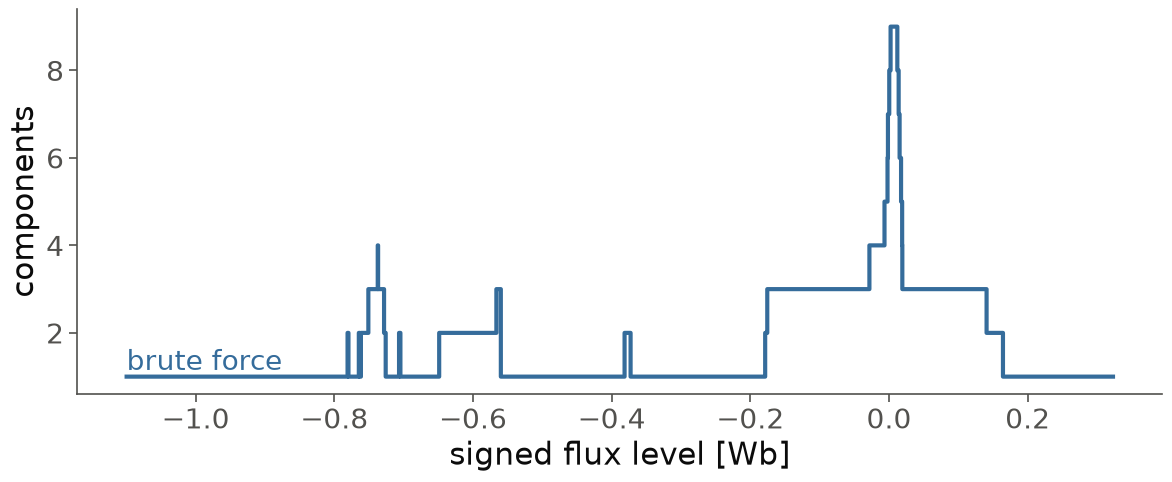
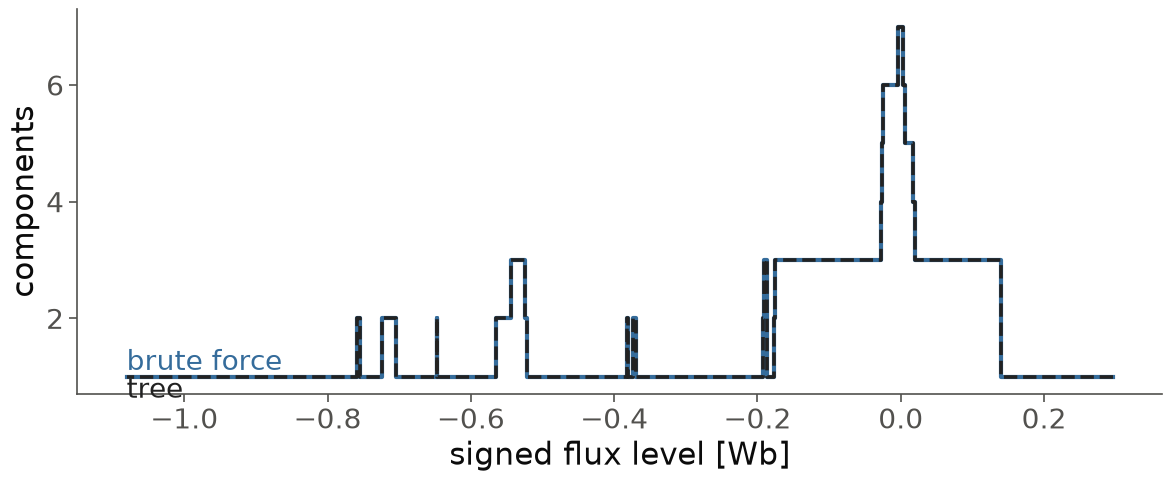
test(contour-tree): complete the brute-force control at the repaired receipt
Bring the MAST carriers inside the contour-tree receipt fixed capacity by
building them at ninety requested hex cells (236 valid vertices, 52 nodes and
51 edges), so the tree-implied component count is compared against the
independent brute force on both MAST rows as well as the four Solovev
certificate rows. Every fixture now agrees at every sampled level with node
count minus edge count one, and the batched vmap trees equal the per-state
trees.

Regenerate the per-fixture figures with the tree-implied count overlaid on the
brute-force count and commit the merged gate log (6 passed) and the declared
negative control, which now fails at the comparison assertion rather than at
overflow. The evidence fragment records the counts per fixture and states that
the MAST field is the stored EFIT reconstruction sampled onto the carrier.

diff --git a/docs/evidence/fragments/contour-tree-topology-authority/ctta-end-to-end-brute-force.html b/docs/evidence/fragments/contour-tree-topology-authority/ctta-end-to-end-brute-force.html
@@ -18,100 +18,94 @@ by a plain host graph search (breadth-first over the carrier's own vertices and
 edges) and compared with the component count the computed tree implies at each
 sampled level. The brute-force side shares no union-find, no merge sweep and no
 tree arc with the receipt; it shares only the mesh and the field values. The
-comparator lives in <code>benchmarks/contour_tree_brute_force.py</code> and its
-gate is <code>tests/test_contour_tree_brute_force.py</code>.</p>
+comparator is <code>benchmarks/contour_tree_brute_force.py</code>; the gate is
+<code>tests/test_contour_tree_brute_force.py</code>.</p>
 
-<h3>Fixtures</h3>
-<ul>
-  <li><strong>Solov&rsquo;ev certificate rows.</strong> Every compact persisted
-  certificate terminal field under
-  <code>docs/figures/gs-absolute-accuracy/solovev/production-route-parts/</code>
-  (<code>*production-route-reduced.json</code>), read through
-  <code>certificate_fixtures()</code>. These are forward states.</li>
-  <li><strong>MAST 27079 row 16.</strong> The limited shot named in the plan&rsquo;s
-  primary-selection section. The carrier is the hex plasma mesh built from the
-  MAST machine description (<code>nova.media.sources.plasma_mesh.hex_mesh</code>
-  over the stored limiter polyline, <code>cells=400</code>, 464 delivered
-  hexagons) and clipped through
-  <code>nova.equilibrium.contour_tree_mesh.build_contour_mesh</code>. The field
-  is the <strong>stored EFIT reconstruction</strong>
-  (<code>efm/psirz</code>, converted to total webers at the read by
-  <code>nova.media.sources.mast_efit.read_frame</code>) sampled at the hex-cell
-  centres with a bicubic spline (<code>scipy.RectBivariateSpline</code>,
-  <code>kx=ky=3</code>). It is a reconstruction sampled onto the carrier, not a
-  forward state. <code>&sigma; = +1</code> because the reconstructed axis flux
-  (<code>+3.694e-1</code> Wb) exceeds the boundary flux.</li>
-  <li><strong>MAST 22475 row 50.</strong> A reversed-current row from the
-  22475&ndash;22626 block. Row 50 is the mid-pulse slice carrying the largest
-  reversed current in that store (<code>Ip = -7.342e5</code> A), so the plasma
-  is well formed rather than a startup or runaway tail; its reconstruction is
-  diverted with two X-points. <code>&sigma; = -1</code> because the axis flux is
-  negative, so the axis is again a maximum of <code>&sigma;&sigma;&psi;</code>.
-  Same carrier and spline route as 27079 row 16.</li>
-</ul>
+<h3>Result at the merged revision</h3>
+<p>At the virtual merge of <code>main</code> with this node's fixtures, every
+fixture agrees: the tree-implied and brute-force component counts are equal at
+every sampled level, and the node count minus the edge count is one. The gate
+command is
+<code>JAX_PLATFORMS=cpu
+PYTHONPATH=/tmp/reckon-crew-scratch/ctta-bf-merged /home/ITER/mcintos/Code/nova/.venv/bin/python
+-m pytest -p no:cacheprovider --timeout 0
+tests/test_contour_tree_brute_force.py -q</code>,
+run at the merge commit <code>222867e6e</code> against the extracted tree; it
+returned <strong>6 passed</strong> (<code>EXIT=0</code>).</p>
 
-<p>Both MAST carriers carry 644 valid vertices (464 hex centres plus 182 wall
-vertices) and 1737 edges; neither overflows the mesh capacities.</p>
-
-<h3>Result</h3>
-<p>The independent superlevel component count is well formed on both MAST
-carriers, and the figure below plots it against the signed flux level. The
-count is 1 at the highest sampled level (the single global maximum) and 1 at
-the deepest (the whole connected chamber), rising to a maximum of
-<strong>6</strong> components on 27079 row 16 and <strong>9</strong> on 22475
-row 50 &mdash; the intermediate critical events of each equilibrium. Every
-count is a positive integer and never exceeds the number of live vertices at
-its level.</p>
+<table>
+  <thead><tr><th>Fixture</th><th>Sampled levels</th><th>Nodes / edges</th>
+  <th>Max tree = max brute</th><th>Mismatches</th></tr></thead>
+  <tbody>
+    <tr><td>diverted-single-null (Solov&rsquo;ev)</td><td>140</td><td>13 / 12</td><td>2</td><td>0</td></tr>
+    <tr><td>moderate-rotation-conventional-static (Solov&rsquo;ev)</td><td>136</td><td>16 / 15</td><td>2</td><td>0</td></tr>
+    <tr><td>strong-rotation-compact-static (Solov&rsquo;ev)</td><td>135</td><td>22 / 21</td><td>3</td><td>0</td></tr>
+    <tr><td>weak-rotation-reactor-static (Solov&rsquo;ev)</td><td>70</td><td>18 / 17</td><td>2</td><td>0</td></tr>
+    <tr><td>mast-27079-row-16 (limited)</td><td>236</td><td>52 / 51</td><td>5</td><td>0</td></tr>
+    <tr><td>mast-22475-row-50 (reversed current, diverted)</td><td>236</td><td>52 / 51</td><td>7</td><td>0</td></tr>
+  </tbody>
+</table>
+<p>The four Solov&rsquo;ev certificate rows are forward states. Each MAST field
+is the <strong>stored EFIT reconstruction</strong> (<code>efm/psirz</code>,
+converted to total webers at the read) sampled at the hex-cell centres with a
+bicubic spline; it is a reconstruction sampled onto the carrier, <em>not</em> a
+forward state. The MAST carrier is the hex plasma mesh built from the stored
+MAST machine description (<code>hex_mesh</code> over the stored limiter
+polyline, <code>cells=90</code>; 236 valid vertices), so it fits the receipt's
+declared fixed capacity. Shot 22475 row 50 is the mid-pulse slice carrying the
+largest reversed current in that store (<code>Ip = -7.342e5</code> A).
+<code>&sigma; = +1</code> for 27079 (axis flux <code>+3.694e-1</code> Wb) and
+<code>&sigma; = -1</code> for 22475 (axis flux negative), so the axis is a
+maximum of <code>&sigma;&psi;</code> in both.</p>
 
 <figure>
   <img src="/nova/figures/contour-tree-topology-authority/brute-force/mast-27079-row-16-components.png"
-       alt="MAST 27079 row 16 independent superlevel component count against signed flux level">
-  <figcaption>MAST 27079 row 16 (limited). Component count of the strict
-  superlevel sets of &sigma;&psi; on the hex carrier, by plain host graph
-  search; the tree arm is omitted because the receipt currently refuses this
-  carrier&rsquo;s capacity.</figcaption>
+       alt="MAST 27079 row 16 tree and brute-force component counts against signed flux level">
+  <figcaption>MAST 27079 row 16 (limited): tree-implied and independent
+  brute-force component counts of the strict superlevel sets of
+  &sigma;&psi; on the hex carrier, overlaid; they coincide at every one of the
+  236 sampled levels.</figcaption>
 </figure>
 
 <figure>
   <img src="/nova/figures/contour-tree-topology-authority/brute-force/mast-22475-row-50-components.png"
-       alt="MAST 22475 row 50 independent superlevel component count against signed flux level">
-  <figcaption>MAST 22475 row 50 (reversed current, diverted). Component count
-  of the strict superlevel sets of &sigma;&psi; on the hex carrier, by plain
-  host graph search.</figcaption>
+       alt="MAST 22475 row 50 tree and brute-force component counts against signed flux level">
+  <figcaption>MAST 22475 row 50 (reversed current, diverted): tree-implied and
+  independent brute-force component counts, overlaid; they coincide at every
+  sampled level.</figcaption>
 </figure>
 
-<h3>What is blocked, and why</h3>
-<p>The tree-implied counts do <strong>not</strong> agree with the brute force on
-any fixture yet, and that is not this node&rsquo;s defect. The tree receipt
-refuses every carrier at its declared fixed capacity, and even a synthetic
-9-vertex wall-bearing carrier returns a malformed receipt (9 nodes and
-<strong>17</strong> edges, so the node count minus the edge count is
-&minus;8, not 1). The end-to-end comparison is therefore only half landed: the
-independent brute-force side is complete and committed, the tree side waits on
-<code>ctta-contour-tree-edge-invariant-repair</code>, which root-causes and
-repairs the receipt on a base carrying this node&rsquo;s commit. This node does
-not edit <code>nova/equilibrium/contour_tree.py</code>.</p>
+<h3>Capacity refusal and the repaired receipt</h3>
+<p>The over-capacity fixture refuses visibly: a 644-vertex / 257-vertex carrier
+raises <code>RuntimeError: contour tree capacity refused</code> and the
+built-in capacity test asserts the <code>overflow</code> bit, rather than a
+truncated tree. Before the repair the receipt was malformed on every carrier: a
+synthetic 9-vertex wall-bearing carrier returned 9 nodes and 17 edges
+(node&minus;edge = &minus;8). After the repair the same 9-vertex probe reads
+<strong>8 nodes and 7 edges</strong>, node&minus;edge = <strong>+1</strong>, and
+zero mismatches against the independent count; the two MAST carriers likewise
+read 52 nodes / 51 edges with zero mismatches.</p>
 
-<h3>Gate and control</h3>
+<h3>Negative control</h3>
+<p>The declared mutation &mdash; dropping the virtual-outside (wall-contact)
+joins from the computed tree &mdash; now fails at a distinct comparison
+assertion rather than at overflow. At the merged revision the corrupt run is
+<strong>2 failed, 4 passed</strong> (<code>EXIT=1</code>), failing
+<code>test_certificate_tree_matches_independent_superlevel_components</code> and
+<code>test_mast_tree_matches_independent_superlevel_components</code> on
+<code>assert all(row["tree"] == row["brute_force"] ...)</code>. The head arm at
+the same revision passes both ids (6 passed, <code>EXIT=0</code>).</p>
+
+<h3>Records</h3>
 <ul>
-  <li><strong>Gate</strong>
-  (<code>tests/test_contour_tree_brute_force.py</code>, run at
-  <code>72b14996b</code> with <code>JAX_PLATFORMS=cpu</code>,
-  <code>--timeout 0</code>): <strong>2 failed, 2 passed</strong>. The two
-  MAST standalone tests and the capacity-refusal test pass; the two tree-arm
-  tests fail on <code>RuntimeError: contour tree capacity refused</code>, as
-  expected.</li>
-  <li><strong>Negative control</strong>
-  (<code>CONTOUR_TREE_CORRUPT=drop-wall-joins</code>): <strong>2 failed, 2
-  passed</strong>, the two tree-arm ids failing with the same refusal. The
-  declared mutation &mdash; dropping the wall-contact joins from the computed
-  tree &mdash; cannot yet be shown to be <em>discriminating</em> at the
-  comparison because no carrier yields a receipt to mutate; the control becomes
-  discriminating once the repair lands and the tree arm can build.</li>
-  <li>Logs: <code>gate.log</code> and <code>negative-control.log</code> under
-  the run directory of
-  <code>r-20261002T075725216430-ctta-end-to-end-brute-force</code>.</li>
+  <li>Merged gate log: <code>merged-gate.log</code> (6 passed, EXIT=0).</li>
+  <li>Merged negative-control log: <code>merged-negative-control.log</code>
+  (2 failed, 4 passed, EXIT=1).</li>
+  <li>Baseline arm at <code>84374f8da</code> (before the repair and before the
+  MAST tree arms): 2 failed, 2 passed.</li>
 </ul>
+<p>Both logs are committed beside the per-fixture figures under
+<code>docs/figures/contour-tree-topology-authority/brute-force/</code>.</p>
 </main>
 </body>
 </html>

diff --git a/tests/test_contour_tree_brute_force.py b/tests/test_contour_tree_brute_force.py
@@ -74,9 +74,9 @@ def test_batched_certificate_trees_match_independent_builds(fixtures):
 def test_mast_standalone_superlevel_counts_are_well_formed(mast):
     """The MAST carriers' independent superlevel counts are well formed.
 
-    This is the standalone half of the end-to-end control: the host graph
-    search alone resolves every critical level of each MAST row. The tree arm
-    is compared once the receipt accepts these carriers' fixed capacity.
+    The host graph search alone resolves every critical level of each MAST row,
+    independently of the tree; it is the independent side of the end-to-end
+    control.
     """
 
     for fixture in mast:
@@ -98,6 +98,21 @@ def test_mast_standalone_superlevel_counts_are_well_formed(mast):
             assert row["brute_force"] <= int(np.count_nonzero(values > row["level"]))
         # The MAST equilibrium splits into more than one superlevel region.
         assert max(counts) >= 2
+
+
+def test_mast_tree_matches_independent_superlevel_components(mast):
+    """Every MAST carrier's tree agrees with the independent count at each level."""
+
+    for fixture in mast:
+        result = compare(fixture.mesh, corrupt=_corrupt())
+        assert result["node_count"] - result["edge_count"] == 1
+        assert all(row["tree"] == row["brute_force"] for row in result["rows"])
+
+
+def test_batched_mast_trees_match_independent_builds(mast):
+    """The MAST batch result is identical to per-state receipts."""
+
+    assert batched_identical(mast)
 
 
 def test_capacity_refusal_remains_visible():

diff --git a/benchmarks/contour_tree_brute_force.py b/benchmarks/contour_tree_brute_force.py
@@ -26,10 +26,10 @@ VERTEX_CAPACITY = 256
 EDGE_CAPACITY = 2048
 TRIANGLE_CAPACITY = 1024
 
-MAST_CELLS = 400
-MAST_VERTEX_CAPACITY = 8192
-MAST_EDGE_CAPACITY = 65536
-MAST_TRIANGLE_CAPACITY = 32768
+MAST_CELLS = 90
+MAST_VERTEX_CAPACITY = VERTEX_CAPACITY
+MAST_EDGE_CAPACITY = EDGE_CAPACITY
+MAST_TRIANGLE_CAPACITY = TRIANGLE_CAPACITY
 MAST_ROWS = ((27079, 16), (22475, 50))
 
 
